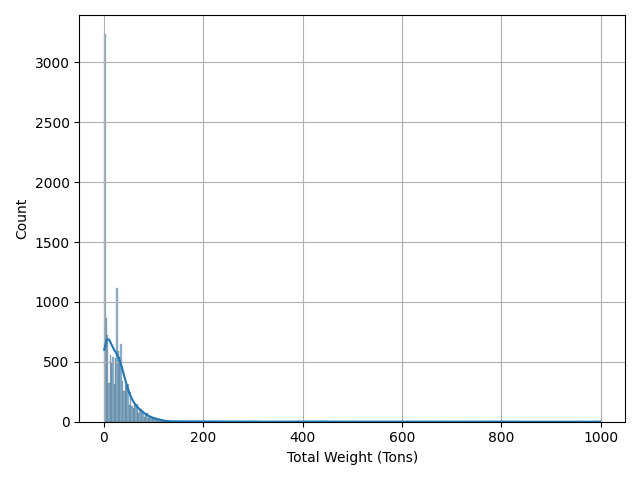
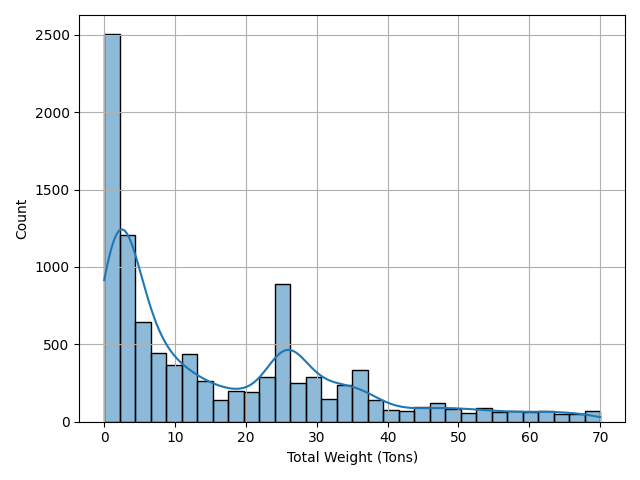
Add outlier detection and removal

diff --git a/operations.py b/operations.py
@@ -41,17 +41,23 @@ df = df[useful_columns]
 
 # Fill missing values
 numerical_features = df.select_dtypes(include='float64').columns
-categorical_features = df.columns[~df.columns.isin(df.select_dtypes(include='float64').columns)]
-df[numerical_features] = df[numerical_features].fillna(df[numerical_features].mean())
+categorical_features = df.columns[~df.columns.isin(
+    df.select_dtypes(include='float64').columns)]
+df[numerical_features] = df[numerical_features].fillna(
+    df[numerical_features].mean())
 
 # Filter the DataFrame to include only the top 10 target countries
-top_target_countries = df['Target Country'].value_counts().nlargest(10).index
-df_top_target_countries = df[df['Target Country'].isin(top_target_countries)]
+top_target_countries = df[
+    'Target Country'].value_counts().nlargest(10).index
+df_top_target_countries = df[df['Target Country'].isin(
+    top_target_countries)]
 
 # Filter the DataFrame to include only the top 4 theaters of ops
-top_theaters_of_ops = df['Theater of Operations'].value_counts().nlargest(4).index
+top_theaters_of_ops = df[
+    'Theater of Operations'].value_counts().nlargest(4).index
 df_top_theaters_of_ops = df_top_target_countries[
-    df_top_target_countries['Theater of Operations'].isin(top_theaters_of_ops)]
+    df_top_target_countries['Theater of Operations'].isin(
+        top_theaters_of_ops)]
 
 # Filter the DataFrame to include only the top 10 target types
 top_target_types = df['Target Type'].value_counts().nlargest(10).index
@@ -59,8 +65,32 @@ df_top_target_types = df_top_theaters_of_ops[
     df_top_theaters_of_ops['Target Type'].isin(top_target_types)]
 
 # Drop missing values
-df_reduced = df_top_target_types.dropna(subset=categorical_features)
+df_reduced = df.dropna(subset=categorical_features)
+df_top_theaters_of_ops_reduced = df_top_target_types.dropna(
+    subset=categorical_features)
 
+
+# Outlier detection and removal (IQR method)
+def remove_outliers(df, column_name):
+    Q1 = df[column_name].quantile(0.25)
+    Q3 = df[column_name].quantile(0.75)
+    IQR = Q3 - Q1
+    lower_bound = Q1 - 1.5 * IQR
+    upper_bound = Q3 + 1.5 * IQR
+    df_outlier_removed = df[(df[column_name] >= lower_bound) & (df[column_name] <= upper_bound)]
+    return df_outlier_removed
+
+
+df_total_weight_outlier_removed = remove_outliers(df, 'Total Weight (Tons)')
+df_total_weight_and_altitude_outlier_removed = remove_outliers(
+    df_total_weight_outlier_removed, 'Altitude (Hundreds of Feet)')
+df_top_theaters_of_ops_total_weight_outlier_removed = remove_outliers(
+    df_top_theaters_of_ops, 'Total Weight (Tons)')
+df_high_explosives_weight_outlier_removed = remove_outliers(df, 'High Explosives Weight (Tons)')
+df_high_explosives_weight_and_altitude_outlier_removed = remove_outliers(
+    df_high_explosives_weight_outlier_removed, 'Altitude (Hundreds of Feet)')
+df_all_outlier_removed = remove_outliers(
+    df_high_explosives_weight_and_altitude_outlier_removed, 'Total Weight (Tons)')
 
 # Line plot:
 # Trends over time
@@ -75,7 +105,7 @@ plt.savefig(f"lineplot.png")
 plt.show()
 
 
-# Bar plot:
+# Bar plot 1:
 # Bombing operations for each country
 top_countries = df['Country'].value_counts()
 plt.figure(figsize=(12, 6))
@@ -88,48 +118,59 @@ plt.savefig(f"barplot_1.png")
 plt.show()
 
 # High explosives weight (tons) for each country
-country_and_explosives_weight = df[['Country', 'High Explosives Weight (Tons)']].dropna()
+# Bar plot 2:
+country_and_explosives_weight = df[['Country', 'High Explosives Weight (Tons)', 'Total Weight (Tons)']].dropna()
 average_explosive_weight = country_and_explosives_weight.groupby('Country').mean()
-average_explosive_weight.plot(kind='bar', legend=False)
-plt.title = 'High Explosives Weight (Tons) for Each Country'
+average_explosive_weight.plot(kind='bar',
+                              label=['High Explosives Weight (Tons)', 'Total Weight (Tons)'], stacked=True)
+plt.title = 'Average High Explosives Weight and Total Weight for Each Country'
+plt.xlabel('Country')
+plt.ylabel('Average Weight (Tons)')
+plt.legend()
 plt.tight_layout()
-plt.savefig(f"barplot_2.png")
+plt.savefig("stacked_barplot.png")
 plt.show()
 
 # Group Bar plot
 # High explosives weight (tons) for the USA and GB
 create_and_save_plot(sns.barplot, x='Country', y='High Explosives Weight (Tons)',
                      hue='Theater of Operations',
-                     data=df_top_theaters_of_ops[df_top_theaters_of_ops['Country'].isin(['USA', 'GREAT BRITAIN'])]
+                     data=df_top_theaters_of_ops[df_top_theaters_of_ops['Country']
+                     .isin(['USA', 'GREAT BRITAIN'])]
                      .groupby(['Country', 'Theater of Operations'])
                      .sum().reset_index(), errorbar=None)
 
 
-# Countplot
-create_and_save_plot(sns.countplot, x='Theater of Operations', data=df_top_theaters_of_ops)
+# Count plot
+create_and_save_plot(sns.countplot, x='Theater of Operations',
+                     data=df_top_theaters_of_ops)
 
 
-# Piechart
-create_and_save_plot(df_top_theaters_of_ops['Theater of Operations'].value_counts().plot.pie, autopct='%1.1f%%')
+# Pie chart
+create_and_save_plot(df_top_theaters_of_ops['Theater of Operations']
+                     .value_counts().plot.pie, autopct='%1.1f%%')
 
 
-# Distplot
-create_and_save_plot(sns.histplot, x='High Explosives Weight (Tons)', data=df_reduced, kde=True)
+# Dist plot
+create_and_save_plot(sns.histplot, x='High Explosives Weight (Tons)',
+                     data=df_high_explosives_weight_outlier_removed, kde=True)
 
 
-# Pairplot
+# Pair plot
 create_and_save_plot(sns.pairplot,
-                     df_reduced[['Total Weight (Tons)',
+                     df_all_outlier_removed.sample(1000)[['Total Weight (Tons)',
                          'Altitude (Hundreds of Feet)',
                          'High Explosives Weight (Tons)']])
 
 
 # Heatmap with color bar
-create_and_save_plot(sns.heatmap, df[numerical_features].corr(), annot=True, cmap='coolwarm')
+create_and_save_plot(sns.heatmap, df[numerical_features].corr(),
+                     annot=True, cmap='coolwarm')
 
 
 # Histogram plot with KDE
-create_and_save_plot(sns.histplot, x='Total Weight (Tons)', data=df_reduced, kde=True)
+create_and_save_plot(sns.histplot, x='Total Weight (Tons)',
+                     data=df_total_weight_outlier_removed.sample(10000), kde=True)
 
 
 # QQ-plot
@@ -137,15 +178,19 @@ create_and_save_plot(sns.histplot, x='Total Weight (Tons)', data=df_reduced, kde
 
 
 # KDE plot
-create_and_save_plot(sns.kdeplot, x='Total Weight (Tons)', data=df_reduced, fill=True, alpha=0.6, palette='viridis', linewidth=2)
+create_and_save_plot(sns.kdeplot, x='Total Weight (Tons)', data=df_total_weight_outlier_removed,
+                     fill=True, alpha=0.6, palette='viridis', linewidth=2)
 
 
 # lm or reg plot with scatter representation and regression line
-create_and_save_plot(sns.regplot, x='Altitude (Hundreds of Feet)', y='Total Weight (Tons)', data=df_reduced, scatter_kws={'alpha':0.6}, line_kws={'color':'red'})
+create_and_save_plot(sns.regplot, x='Altitude (Hundreds of Feet)', y='Total Weight (Tons)',
+                     data=df_total_weight_and_altitude_outlier_removed.sample(n=1000), scatter_kws={'alpha': 0.6},
+                     line_kws={'color': 'red'})
 
 
 # Multivariate Box or Boxen plot
-create_and_save_plot(sns.boxenplot, x='Theater of Operations', y='Total Weight (Tons)', hue='Target Country', data=df_reduced)
+create_and_save_plot(sns.boxenplot, x='Theater of Operations', y='Total Weight (Tons)', hue='Target Country',
+                     data=df_top_theaters_of_ops_total_weight_outlier_removed.sample(10000))
 
 
 # Area plot
@@ -153,12 +198,18 @@ create_and_save_plot(df.groupby('Theater of Operations')['Total Weight (Tons)'].
 
 
 # Violin plot
-create_and_save_plot(sns.violinplot, x='Theater of Operations', y='Total Weight (Tons)', hue='Target Type', split=True, data=df_reduced)
+create_and_save_plot(sns.violinplot, x='Theater of Operations', y='Total Weight (Tons)',
+                     data=df_top_theaters_of_ops_total_weight_outlier_removed)
 
 
 # Joint plot with KDE and scatter representation
-create_and_save_plot(sns.jointplot, x='Altitude (Hundreds of Feet)', y='Total Weight (Tons)', data=df_reduced, kind='kde')
+create_and_save_plot(sns.jointplot, x='Altitude (Hundreds of Feet)', y='Total Weight (Tons)',
+                     data=df_total_weight_and_altitude_outlier_removed.sample(n=10000), kind='kde')
 
 
 # Rugplot
-create_and_save_plot(sns.rugplot, x=df_reduced['Total Weight (Tons)'])
+sns.kdeplot(data=df_total_weight_outlier_removed.sample(10000, random_state=1),
+            x='Total Weight (Tons)')
+create_and_save_plot(sns.rugplot,
+                     x=df_total_weight_outlier_removed[
+                         'Total Weight (Tons)'].sample(10000, random_state=1))
